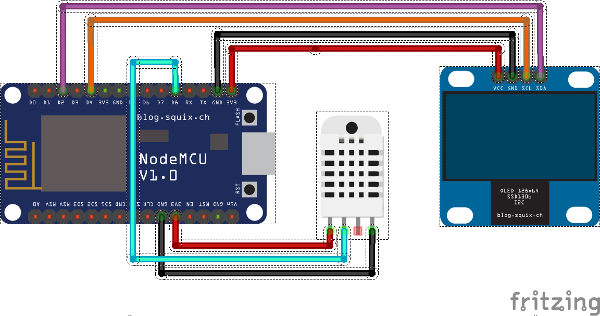
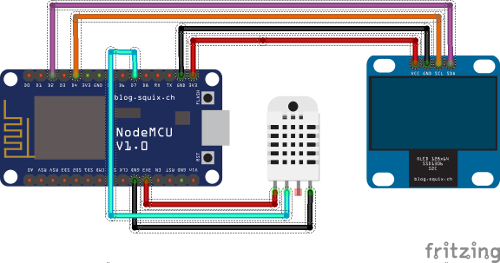
Fix temp sensor data line
D8 is used to force the device into bootloader mode. This was causing
issues when programming, and also would mean the device did not run
standalone. Move the data line to D7, and update the drawing.

Small cleanups for LCD spacing.

diff --git a/README.md b/README.md
@@ -1,7 +1,7 @@
 # Temperature monitor
 
 This sketch reads the temperature from a DHT22 temperature/humidity module and
-displays the current temperature on a D1306 compatible 128x64 OLED LCD display.
+displays the current temperature on a D1306 compatible 128x64 OLED display.
 
 It has been tested on a NodeMCU 1.0 with Arduino 1.6.9.
 
@@ -14,7 +14,7 @@ programming to succeed.
 | ----- | --- |
 | SDA   | D2  |
 | SCL   | D4  |
-| DHT22 | D8  |
+| DHT22 | D7  |
 
 ![Wiring diagram][diagram]
 
